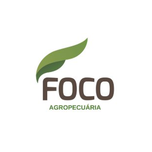
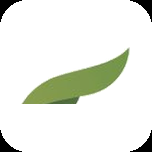
Add files via upload

diff --git a/index.html b/index.html
@@ -10,14 +10,6 @@
   <meta name="apple-mobile-web-app-status-bar-style" content="default">
   <meta name="apple-mobile-web-app-title" content="Foco">
   <!-- iOS: apple-touch-icon SEM cache-buster para forçar reload -->
-  <link rel="apple-touch-icon" href="icons/icon-180.png">
-  <link rel="apple-touch-icon" sizes="120x120" href="icons/icon-128.png">
-  <link rel="apple-touch-icon" sizes="152x152" href="icons/icon-152.png">
-  <link rel="apple-touch-icon" sizes="167x167" href="icons/icon-192.png">
-  <link rel="apple-touch-icon" sizes="180x180" href="icons/icon-180.png">
-  <link rel="icon" type="image/png" sizes="192x192" href="icons/icon-192.png">
-  <link rel="icon" type="image/png" sizes="512x512" href="icons/icon-512.png">
-  <meta name="msapplication-TileImage" content="icons/icon-144.png">
   <meta name="msapplication-TileColor" content="#ffffff">
   <meta charset="UTF-8">
   <meta name="viewport" content="width=device-width, initial-scale=1.0">
@@ -80,10 +72,14 @@
   .footer { margin-top: 32px; font-size: 10px; color: #ccc; font-family: 'DM Mono', monospace; }
 </style>
 
-  <link rel="icon" href="favicon.ico" sizes="any">
-  <link rel="icon" type="image/png" sizes="32x32" href="favicon-32.png">
-  <link rel="icon" type="image/png" sizes="16x16" href="favicon-16.png">
-  <link rel="mask-icon" href="safari-pinned-tab.svg" color="#1a3a2a">
+  <link rel="apple-touch-icon" href="icon-180.png">
+  <link rel="apple-touch-icon" sizes="120x120" href="icon-128.png">
+  <link rel="apple-touch-icon" sizes="152x152" href="icon-152.png">
+  <link rel="apple-touch-icon" sizes="167x167" href="icon-192.png">
+  <link rel="apple-touch-icon" sizes="180x180" href="icon-180.png">
+  <link rel="icon" type="image/png" sizes="192x192" href="icon-192.png">
+  <link rel="icon" type="image/png" sizes="512x512" href="icon-512.png">
+  <link rel="icon" type="image/png" sizes="96x96" href="icon-96.png">
 </head>
 <body>
   <div class="card">

diff --git a/app.html b/app.html
@@ -577,11 +577,14 @@ td.mono{font-family:'DM Mono',monospace;font-size:12px;}
 .pix-cc{font-family:'DM Mono',monospace;font-size:11px;line-height:1.5;color:var(--texto);word-break:break-all;background:var(--creme);border:1px solid var(--creme-dark);border-radius:8px;padding:10px;margin-bottom:10px;max-height:130px;overflow:auto;}
 
 </style>
-  <link rel="icon" href="favicon.ico" sizes="any">
-  <link rel="icon" type="image/png" sizes="32x32" href="favicon-32.png">
-  <link rel="icon" type="image/png" sizes="16x16" href="favicon-16.png">
-  <link rel="apple-touch-icon" href="apple-touch-icon.png">
-  <link rel="mask-icon" href="safari-pinned-tab.svg" color="#1a3a2a">
+  <link rel="apple-touch-icon" href="icon-180.png">
+  <link rel="apple-touch-icon" sizes="120x120" href="icon-128.png">
+  <link rel="apple-touch-icon" sizes="152x152" href="icon-152.png">
+  <link rel="apple-touch-icon" sizes="167x167" href="icon-192.png">
+  <link rel="apple-touch-icon" sizes="180x180" href="icon-180.png">
+  <link rel="icon" type="image/png" sizes="192x192" href="icon-192.png">
+  <link rel="icon" type="image/png" sizes="512x512" href="icon-512.png">
+  <link rel="icon" type="image/png" sizes="96x96" href="icon-96.png">
 </head>
 <body>
 

diff --git a/app-relatorios.html b/app-relatorios.html
@@ -516,11 +516,14 @@ td.mono{font-family:'DM Mono',monospace;font-size:12px;}
 .rel-row-detalhe td{padding:5px 10px !important;}
 .rel-expand-btn{cursor:pointer;user-select:none;font-family:'DM Mono',monospace;font-size:11px;color:var(--verde);}
 </style>
-  <link rel="icon" href="favicon.ico" sizes="any">
-  <link rel="icon" type="image/png" sizes="32x32" href="favicon-32.png">
-  <link rel="icon" type="image/png" sizes="16x16" href="favicon-16.png">
-  <link rel="apple-touch-icon" href="apple-touch-icon.png">
-  <link rel="mask-icon" href="safari-pinned-tab.svg" color="#1a3a2a">
+  <link rel="apple-touch-icon" href="icon-180.png">
+  <link rel="apple-touch-icon" sizes="120x120" href="icon-128.png">
+  <link rel="apple-touch-icon" sizes="152x152" href="icon-152.png">
+  <link rel="apple-touch-icon" sizes="167x167" href="icon-192.png">
+  <link rel="apple-touch-icon" sizes="180x180" href="icon-180.png">
+  <link rel="icon" type="image/png" sizes="192x192" href="icon-192.png">
+  <link rel="icon" type="image/png" sizes="512x512" href="icon-512.png">
+  <link rel="icon" type="image/png" sizes="96x96" href="icon-96.png">
 </head>
 <body>
 

diff --git a/login-endividamento.html b/login-endividamento.html
@@ -108,11 +108,14 @@ input:focus{border-color:var(--verde-light);box-shadow:0 0 0 3px rgba(74,140,92,
   margin:0 auto 0;
 }
 </style>
-  <link rel="icon" href="favicon.ico" sizes="any">
-  <link rel="icon" type="image/png" sizes="32x32" href="favicon-32.png">
-  <link rel="icon" type="image/png" sizes="16x16" href="favicon-16.png">
-  <link rel="apple-touch-icon" href="apple-touch-icon.png">
-  <link rel="mask-icon" href="safari-pinned-tab.svg" color="#1a3a2a">
+  <link rel="apple-touch-icon" href="icon-180.png">
+  <link rel="apple-touch-icon" sizes="120x120" href="icon-128.png">
+  <link rel="apple-touch-icon" sizes="152x152" href="icon-152.png">
+  <link rel="apple-touch-icon" sizes="167x167" href="icon-192.png">
+  <link rel="apple-touch-icon" sizes="180x180" href="icon-180.png">
+  <link rel="icon" type="image/png" sizes="192x192" href="icon-192.png">
+  <link rel="icon" type="image/png" sizes="512x512" href="icon-512.png">
+  <link rel="icon" type="image/png" sizes="96x96" href="icon-96.png">
 </head>
 <body>
 <div class="bg-pattern"></div>

diff --git a/app-config.html b/app-config.html
@@ -153,11 +153,14 @@ input.inp:focus,select.inp:focus{border-color:var(--verde);}
   .tab{flex:1;text-align:center;padding:8px 10px;}
 }
 </style>
-  <link rel="icon" href="favicon.ico" sizes="any">
-  <link rel="icon" type="image/png" sizes="32x32" href="favicon-32.png">
-  <link rel="icon" type="image/png" sizes="16x16" href="favicon-16.png">
-  <link rel="apple-touch-icon" href="apple-touch-icon.png">
-  <link rel="mask-icon" href="safari-pinned-tab.svg" color="#1a3a2a">
+  <link rel="apple-touch-icon" href="icon-180.png">
+  <link rel="apple-touch-icon" sizes="120x120" href="icon-128.png">
+  <link rel="apple-touch-icon" sizes="152x152" href="icon-152.png">
+  <link rel="apple-touch-icon" sizes="167x167" href="icon-192.png">
+  <link rel="apple-touch-icon" sizes="180x180" href="icon-180.png">
+  <link rel="icon" type="image/png" sizes="192x192" href="icon-192.png">
+  <link rel="icon" type="image/png" sizes="512x512" href="icon-512.png">
+  <link rel="icon" type="image/png" sizes="96x96" href="icon-96.png">
 </head>
 <body>
 

diff --git a/app-receitas.html b/app-receitas.html
@@ -504,11 +504,14 @@ td.mono{font-family:'DM Mono',monospace;font-size:12px;}
   .nav-tab { font-size: 8px; padding: 8px 2px; }
 }
 </style>
-  <link rel="icon" href="favicon.ico" sizes="any">
-  <link rel="icon" type="image/png" sizes="32x32" href="favicon-32.png">
-  <link rel="icon" type="image/png" sizes="16x16" href="favicon-16.png">
-  <link rel="apple-touch-icon" href="apple-touch-icon.png">
-  <link rel="mask-icon" href="safari-pinned-tab.svg" color="#1a3a2a">
+  <link rel="apple-touch-icon" href="icon-180.png">
+  <link rel="apple-touch-icon" sizes="120x120" href="icon-128.png">
+  <link rel="apple-touch-icon" sizes="152x152" href="icon-152.png">
+  <link rel="apple-touch-icon" sizes="167x167" href="icon-192.png">
+  <link rel="apple-touch-icon" sizes="180x180" href="icon-180.png">
+  <link rel="icon" type="image/png" sizes="192x192" href="icon-192.png">
+  <link rel="icon" type="image/png" sizes="512x512" href="icon-512.png">
+  <link rel="icon" type="image/png" sizes="96x96" href="icon-96.png">
 </head>
 <body>
 

diff --git a/app-endividamento.html b/app-endividamento.html
@@ -236,11 +236,14 @@ td.mono{font-family:'DM Mono',monospace;font-size:12px;}
   .dashboard-grid{grid-template-columns:1fr;}
 }
 </style>
-  <link rel="icon" href="favicon.ico" sizes="any">
-  <link rel="icon" type="image/png" sizes="32x32" href="favicon-32.png">
-  <link rel="icon" type="image/png" sizes="16x16" href="favicon-16.png">
-  <link rel="apple-touch-icon" href="apple-touch-icon.png">
-  <link rel="mask-icon" href="safari-pinned-tab.svg" color="#1a3a2a">
+  <link rel="apple-touch-icon" href="icon-180.png">
+  <link rel="apple-touch-icon" sizes="120x120" href="icon-128.png">
+  <link rel="apple-touch-icon" sizes="152x152" href="icon-152.png">
+  <link rel="apple-touch-icon" sizes="167x167" href="icon-192.png">
+  <link rel="apple-touch-icon" sizes="180x180" href="icon-180.png">
+  <link rel="icon" type="image/png" sizes="192x192" href="icon-192.png">
+  <link rel="icon" type="image/png" sizes="512x512" href="icon-512.png">
+  <link rel="icon" type="image/png" sizes="96x96" href="icon-96.png">
 </head>
 <body>
 

diff --git a/LEIA-ME.md b/LEIA-ME.md
@@ -1,0 +1,19 @@
+# Logo na aba fixada — padrão igual ao da Fazenda Santa Rita
+
+## Por que o Grupo Foco não aparecia
+Os ícones do Grupo Foco apontavam para a pasta `icons/`, que nunca foi publicada
+(dava 404). A Santa Rita (que funciona) tem os ícones na RAIZ e usa apple-touch-icon
++ rel=icon 192/512 — sem mask-icon. Copiei exatamente esse padrão.
+
+## Como instalar (igual você fez na Santa Rita)
+1. Suba os 9 arquivos `icon-*.png` na **RAIZ** do repositório (NÃO em pasta icons/).
+2. Suba os 7 HTML e o `manifest.json` (substituindo os atuais).
+3. No Safari: feche a aba fixada antiga, feche e reabra o Safari, e **fixe de novo**.
+
+Pode apagar do repositório (opcional, não atrapalham): favicon.ico, favicon-16.png,
+favicon-32.png, apple-touch-icon.png, safari-pinned-tab.svg e a pasta icons/ — não são
+mais usados neste padrão.
+
+## Para o Foco Logística
+Mesmo processo: ícones `icon-*.png` na raiz + este bloco no <head> de cada página +
+manifest apontando para a raiz. Se a logo for diferente, me manda que eu gero os ícones.
